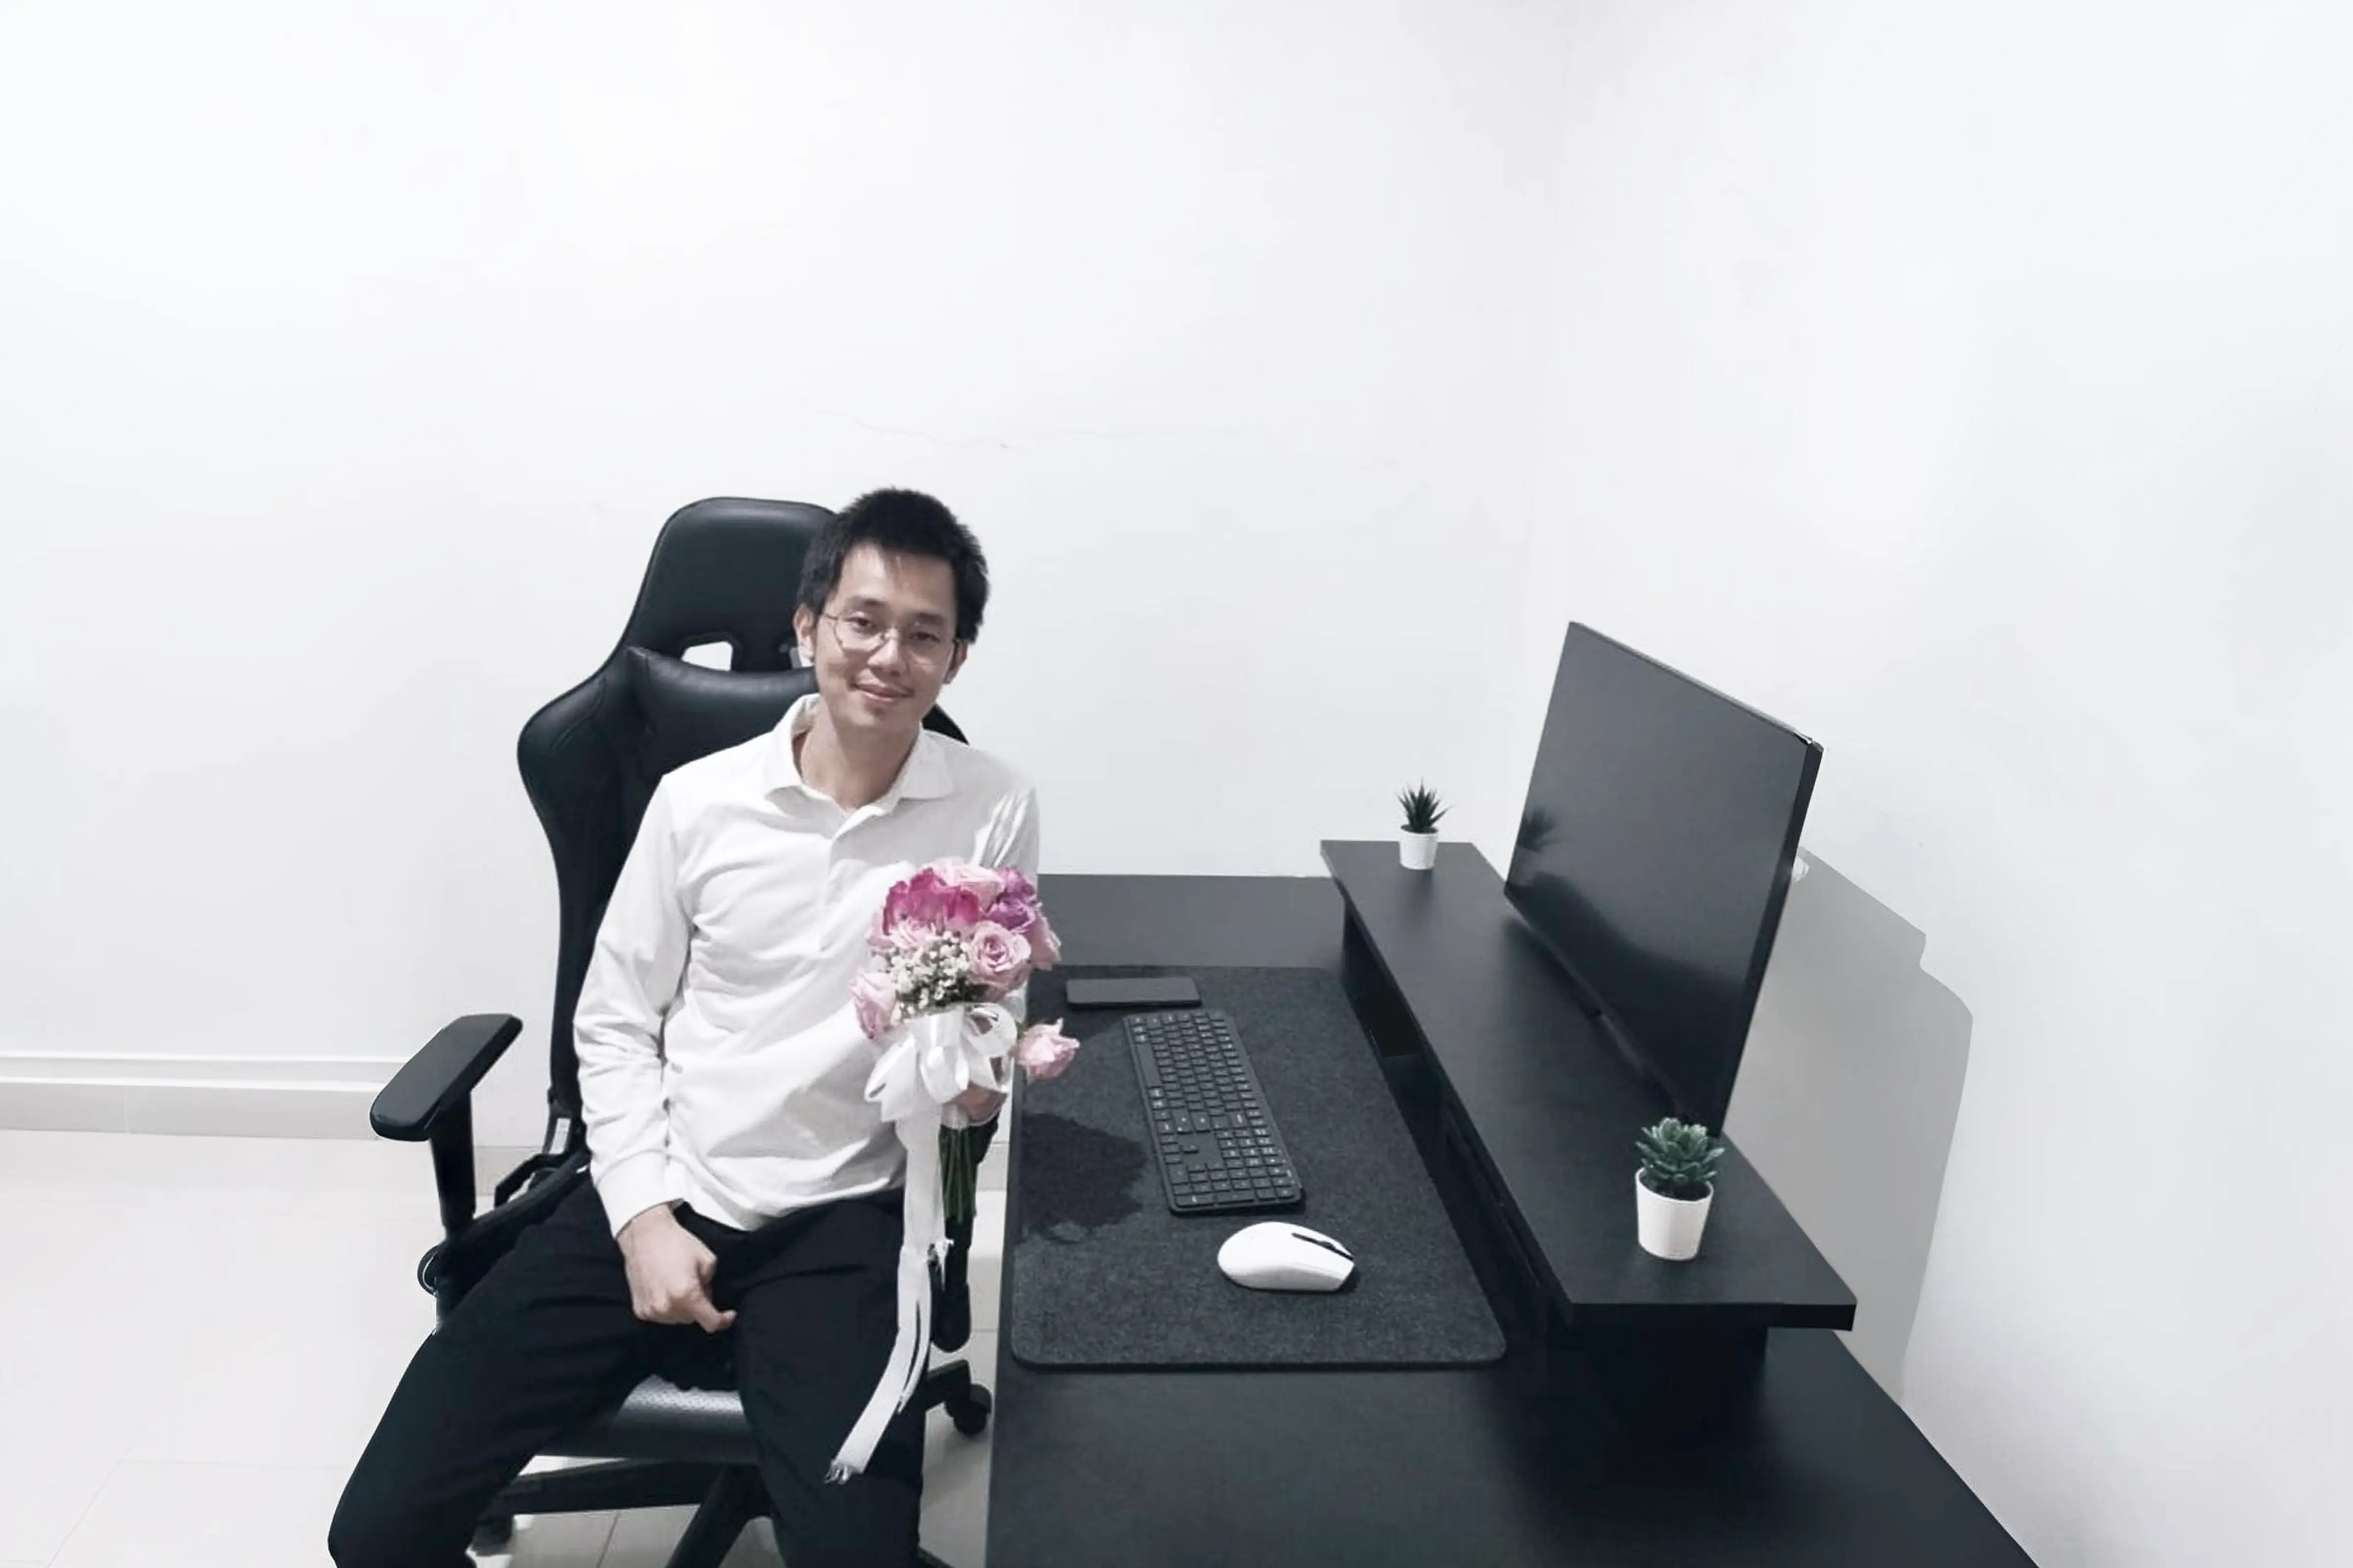
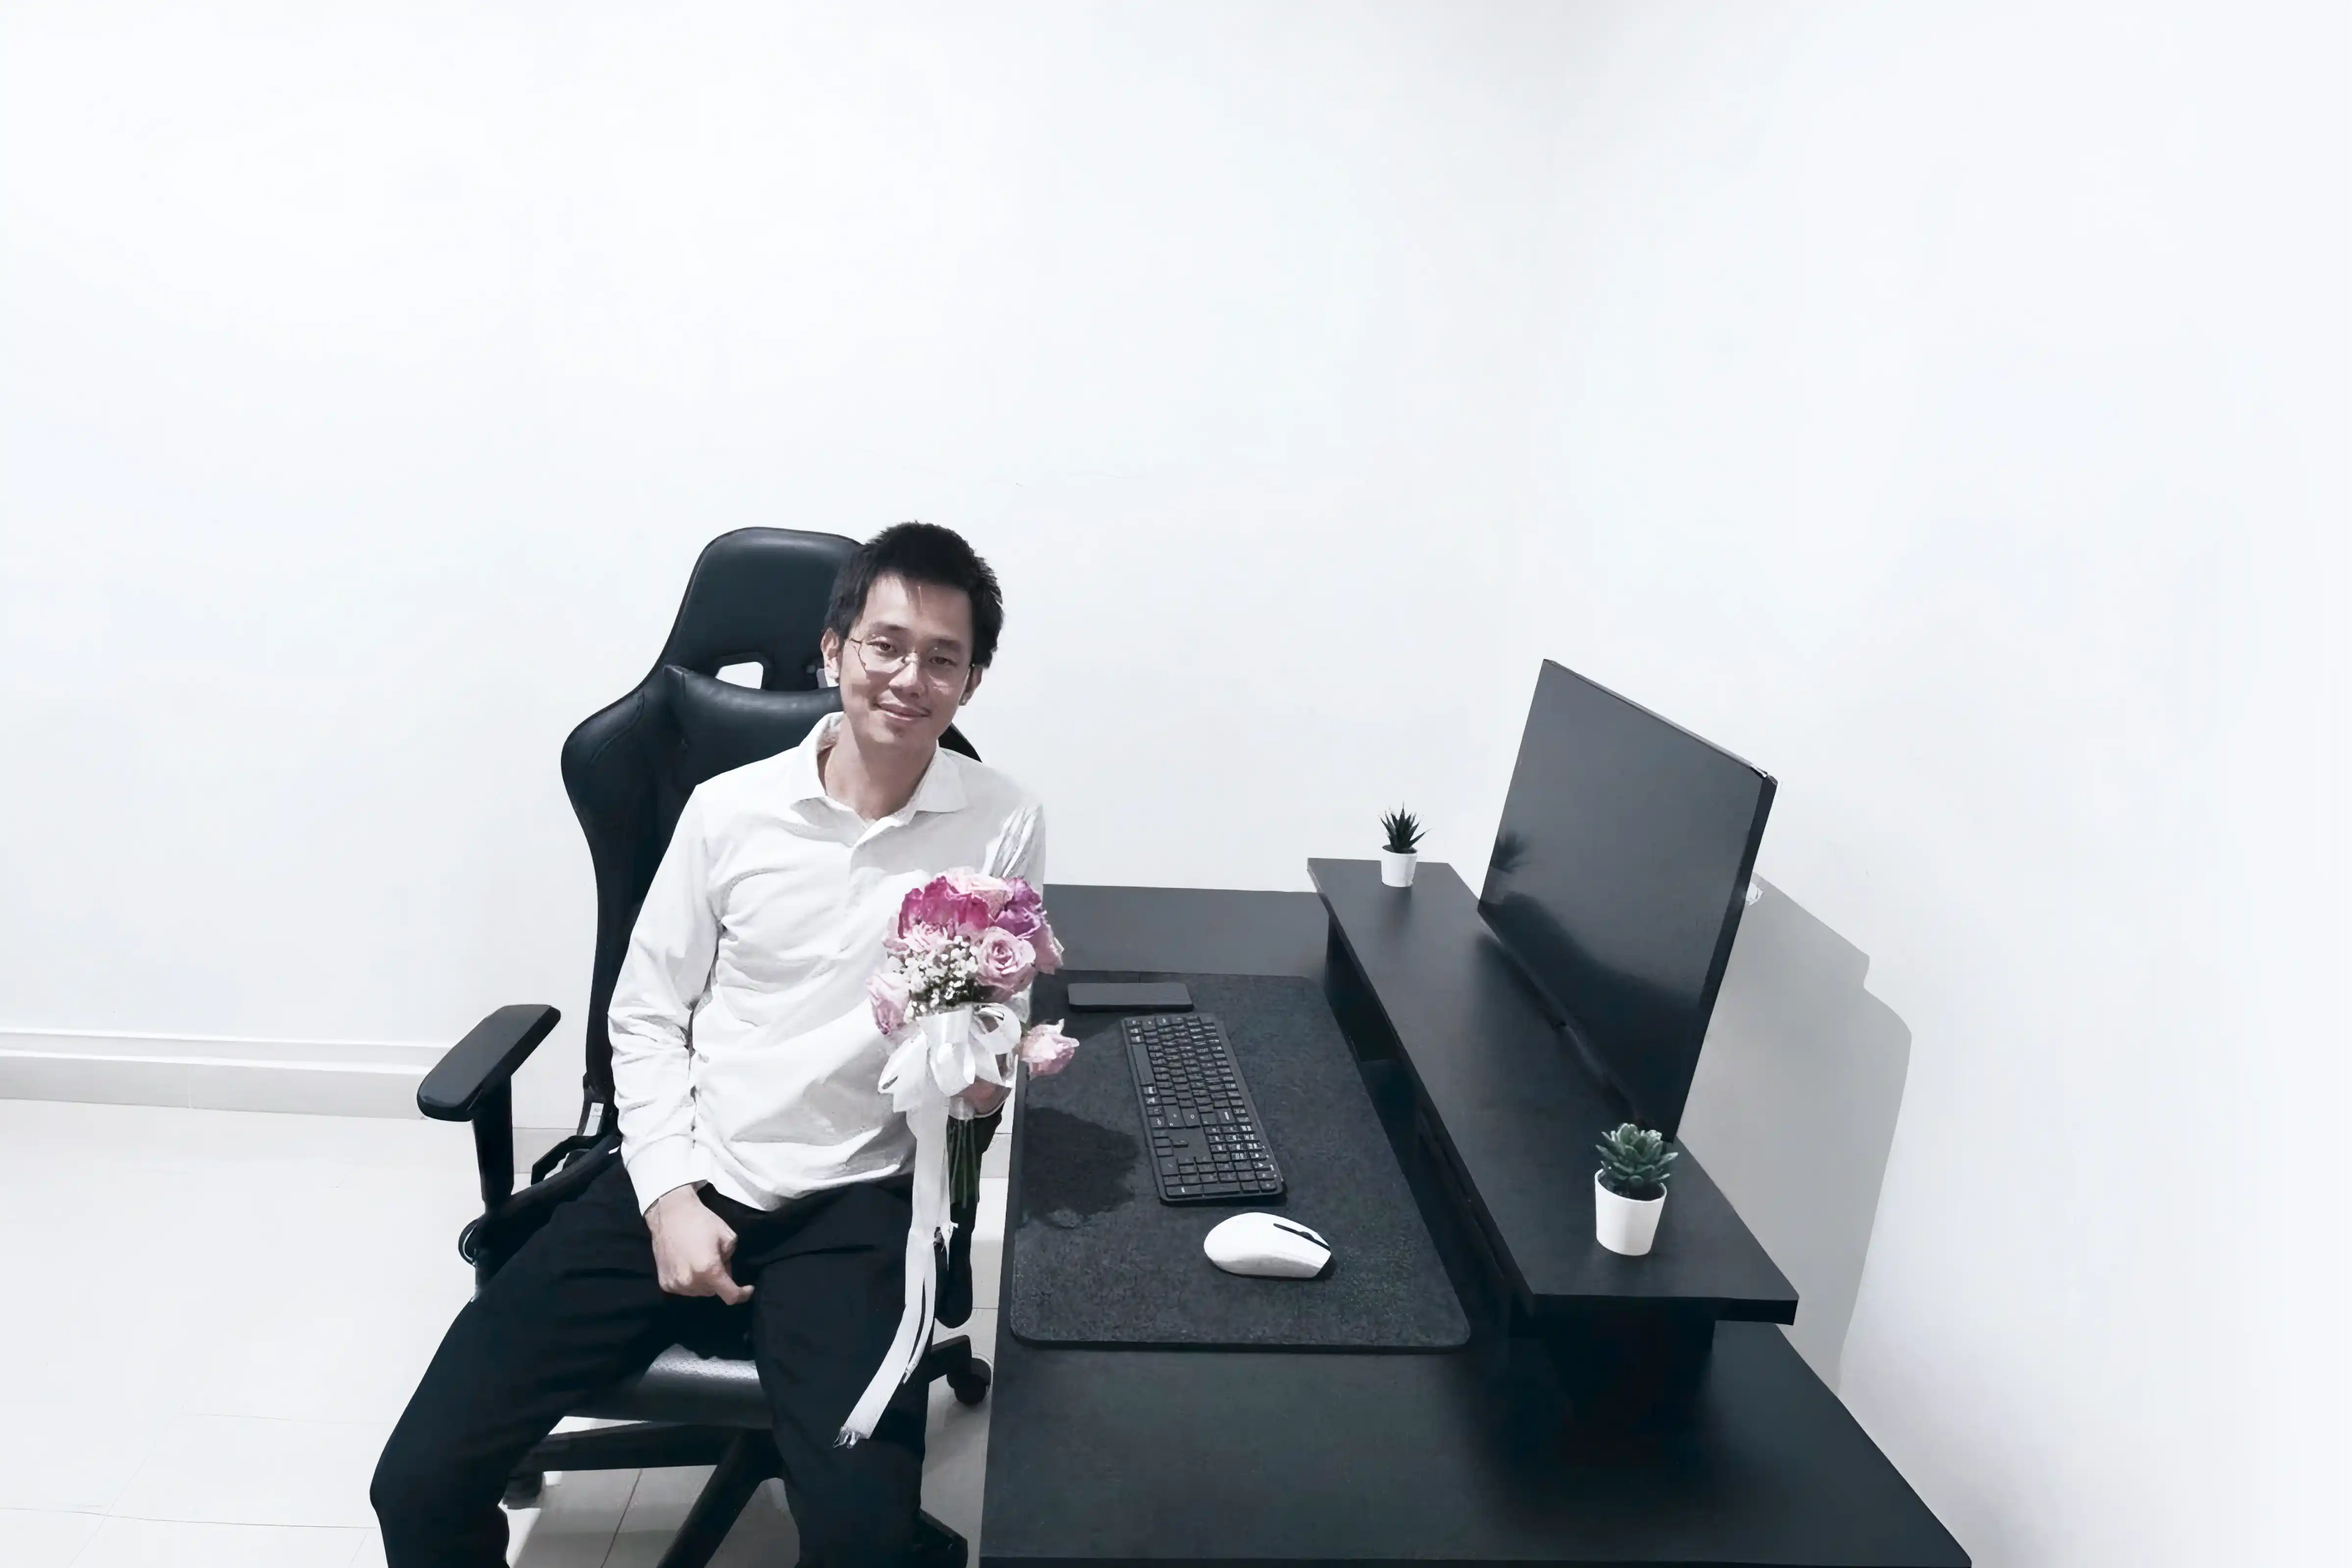
update navbar

Changed region(s): [[0.0, 0.3096, 0.9942, 1.0], [0.7146, 0.9906, 0.8078, 1.0], [0.9942, 0.8977, 1.0, 0.9597]]

diff --git a/src/pages/AboutPage.tsx b/src/pages/AboutPage.tsx
@@ -3,7 +3,7 @@ import Header from "@/components/Header";
 import Footer from "@/components/Footer";
 import ItemCard3 from "@/components/ui/ItemCard3";
 import { client } from "@/sanityClient";
-import image from "@/assets/me.webp";
+import me from "@/assets/me.webp";
 import AnimationText from "@/components/ui/AnimationText";
 import AnimationGroup from "@/components/ui/AnimationGroup";
 import CMSList from "@/components/CMSList";
@@ -93,7 +93,7 @@ const AboutPage = ({ maxItems }: AboutPageProps) => {
           <AnimationGroup
             aria-label="Portrait of Daniel Wijaya"
             delay={500}>
-            <img src={image} alt="Daniel Wijaya" className="w-full h-full object-cover rounded-2xl" />
+            <img src={me} alt="Daniel Wijaya and his desk setup" className="w-full h-full object-cover rounded-2xl" />
           </AnimationGroup>
 
           <AnimationGroup
